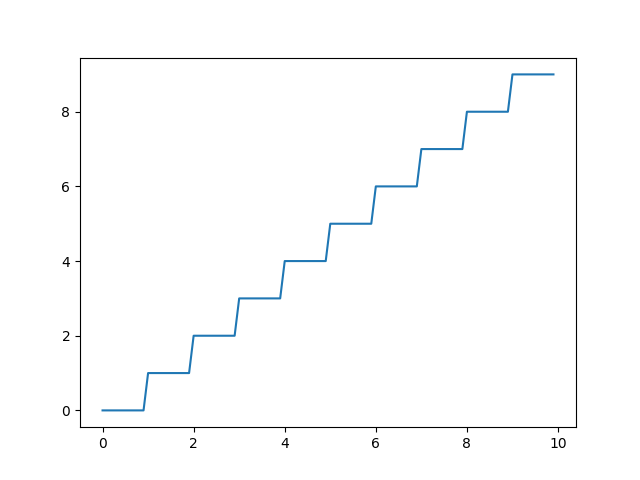
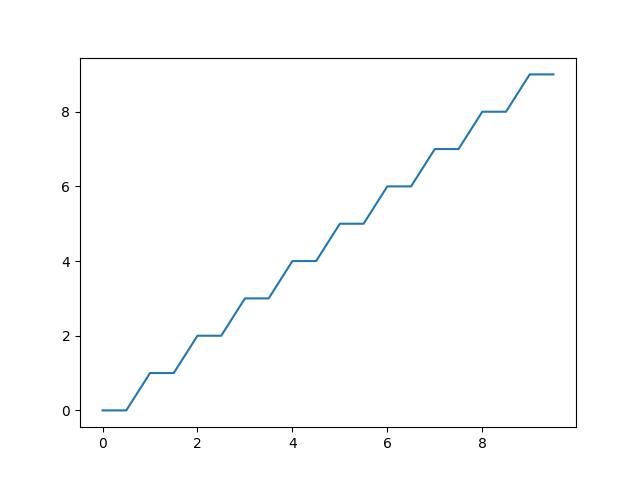
as

diff --git a/task_2_3.py b/task_2_3.py
@@ -2,15 +2,16 @@ import matplotlib.pyplot as plt
 import numpy as np
 
 def func(a,b):
-    x1=np.arange(a-10,a,0.1)
-    x2=np.arange(a,b,0.1)
-    x3=np.arange(b,b+10,0.1)
-    y1=x1/x1*a**2
-    y2=x2**2
-    y3=x3/x3*b**2
-    plt.plot(x1,y1)
-    plt.plot(x2,y2)
-    plt.plot(x3,y3)
+    x=np.arange(a-10,b+10,1)
+    y=np.array()
+    for i in x:
+        if i<a:
+            y.append(a**2)
+        elif a<=x<=b:
+            y.append(x**2)
+        else:
+            y.append(b**2)
+    plt.plot(x,y)
     plt.axis('equal')
     plt.savefig('task_2_3.png')
 if __name__=='__main__':
